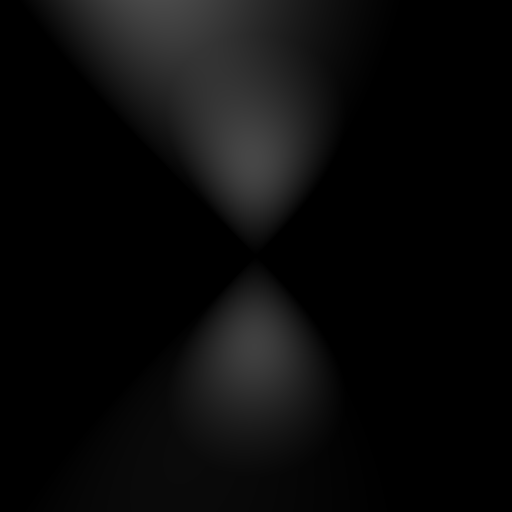
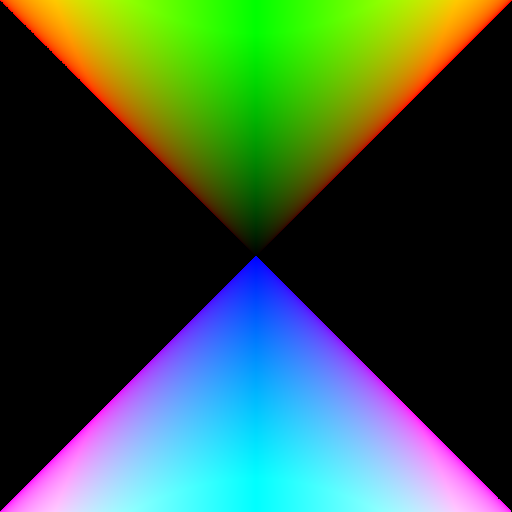
Implemented reflective material and Whitted for reflection

diff --git a/rt/src/rt/integrators/WhittedIntegrator.java b/rt/src/rt/integrators/WhittedIntegrator.java
@@ -2,13 +2,14 @@ package rt.integrators;
 
 import java.util.Iterator;
 
-import javax.vecmath.*;
+import javax.vecmath.Vector3f;
 
 import rt.HitRecord;
 import rt.Integrator;
 import rt.Intersectable;
-import rt.LightList;
 import rt.LightGeometry;
+import rt.LightList;
+import rt.Material.ShadingSample;
 import rt.Ray;
 import rt.Sampler;
 import rt.Scene;
@@ -18,12 +19,13 @@ import rt.StaticVecmath;
 /**
  * Integrator for Whitted style ray tracing. This is a basic version that needs to be extended!
  */
-public class PointLightIntegrator implements Integrator {
+public class WhittedIntegrator implements Integrator {
 
 	LightList lightList;
 	Intersectable root;
+	static final int MAX_DEPTH = 10;
 	
-	public PointLightIntegrator(Scene scene)
+	public WhittedIntegrator(Scene scene)
 	{
 		this.lightList = scene.getLightList();
 		this.root = scene.getIntersectable();
@@ -37,6 +39,19 @@ public class PointLightIntegrator implements Integrator {
 	public Spectrum integrate(Ray r) {
 
 		HitRecord hitRecord = root.intersect(r);
+		
+		int depth = 0;
+		while(hitRecord != null && hitRecord.material.hasSpecularReflection() && depth < MAX_DEPTH){
+			ShadingSample sample = hitRecord.material.evaluateSpecularReflection(hitRecord);
+			
+			Vector3f posPlusEps = new Vector3f();
+			posPlusEps.scaleAdd(1e-3f, sample.w,hitRecord.position);
+//			Ray reflectedRay = new Ray(hitRecord.position, sample.w);
+			Ray reflectedRay = new Ray(posPlusEps, sample.w);
+			hitRecord = root.intersect(reflectedRay);
+			depth++;
+		}
+		
 		if(hitRecord != null)
 		{
 			Spectrum outgoing = new Spectrum(0.f, 0.f, 0.f);
@@ -56,18 +71,18 @@ public class PointLightIntegrator implements Integrator {
 				float d = lightDir.lengthSquared();
 				lightDir.normalize();
 				
-				Ray shadowRay = new Ray(hitRecord.position,lightDir);
-				Vector3f scaledLightDir = new Vector3f(lightDir);
-				scaledLightDir.scale(1e-3f);
-				shadowRay.origin.add(scaledLightDir);
-				HitRecord shadowHit = root.intersect(shadowRay);
-
-				if(shadowHit != null){
-					float lengthShadowHitToHitRecord = StaticVecmath.dist2(shadowHit.position, hitRecord.position);
-					if (d > lengthShadowHitToHitRecord){
-						continue;
-					}
-				}
+//				Ray shadowRay = new Ray(hitRecord.position,lightDir);
+//				Vector3f scaledLightDir = new Vector3f(lightDir);
+//				scaledLightDir.scale(1e-3f);
+//				shadowRay.origin.add(scaledLightDir);
+//				HitRecord shadowHit = root.intersect(shadowRay);
+//
+//				if(shadowHit != null){
+//					float lengthShadowHitToHitRecord = StaticVecmath.dist2(shadowHit.position, hitRecord.position);
+//					if (d > lengthShadowHitToHitRecord){
+//						continue;
+//					}
+//				}
 				
 				// Evaluate the BRDF
 				brdfValue = hitRecord.material.evaluateBRDF(hitRecord, hitRecord.w, lightDir);

diff --git a/rt/src/rt/testscenes/CSGScene.java b/rt/src/rt/testscenes/CSGScene.java
@@ -10,17 +10,19 @@ import rt.Scene;
 import rt.Spectrum;
 import rt.cameras.PinholeCamera;
 import rt.films.BoxFilterFilm;
-import rt.integrators.PointLightIntegratorFactory;
+import rt.integrators.WhittedIntegratorFactory;
 import rt.intersectables.CSGInstance;
 import rt.intersectables.CSGNode;
 import rt.intersectables.CSGPlane;
 import rt.intersectables.CSGSolid;
+import rt.intersectables.CSGSphere;
 import rt.intersectables.CSGTwoSidedInfiniteCone;
 import rt.intersectables.CSGUnitCylinder;
 import rt.intersectables.IntersectableList;
 import rt.intersectables.Plane;
 import rt.lightsources.PointLight;
 import rt.materials.Diffuse;
+import rt.materials.Reflective;
 import rt.materials.XYZGrid;
 import rt.samplers.OneSamplerFactory;
 import rt.tonemappers.ClampTonemapper;
@@ -50,13 +52,20 @@ public class CSGScene extends Scene {
 		tonemapper = new ClampTonemapper();
 		
 		// Specify which integrator and sampler to use
-//		integratorFactory = new WhittedIntegratorFactory();
-		integratorFactory = new PointLightIntegratorFactory();
+		integratorFactory = new WhittedIntegratorFactory();
+//		integratorFactory = new PointLightIntegratorFactory();
+//		integratorFactory = new DebugIntegratorFactory();
+		
+		// TODO
 //		samplerFactory = new UniformSamplerFactory();
 		samplerFactory = new OneSamplerFactory();
 		
+		// TODO
 //		Material refractive = new Refractive(1.3f);
-		Material refractive = new Diffuse(new Spectrum(1.f, 1.f, 1.f));
+//		Material refractive = new Diffuse(new Spectrum(1.f, 1.f, 1.f));
+//		Material refractive = new rt.materials.Blinn(new Spectrum(1f, 1f, 1f), new Spectrum(.4f, .4f, .4f), 50.f);
+		Material refractive = new Reflective(new Spectrum(1,1,1));
+		
 		// Make a conical "bowl" by subtracting cross-sections of two cones
 		CSGSolid outerCone = coneCrossSection(60.f, refractive);
 		// Make an inner cone and subtract it
@@ -72,7 +81,7 @@ public class CSGScene extends Scene {
 		rot.rotX(-(float)Math.PI/2.f);
 		Matrix4f trans = new Matrix4f();
 		trans.setIdentity();
-		trans.setTranslation(new Vector3f(-1.5f, -1.5f, 0.f));
+		trans.setTranslation(new Vector3f(-1.5f,-1.5f, 0f));
 		trans.mul(rot);		
 		doubleCone = new CSGInstance(doubleCone, trans);
 		
@@ -103,6 +112,7 @@ public class CSGScene extends Scene {
 		rot.setIdentity();
 		rot.rotX(-(float)Math.PI/2.f);		
 		rot.mul(trafo);
+		
 		// Place in scene by translating
 		trans = new Matrix4f();
 		trans.setIdentity();
@@ -119,7 +129,7 @@ public class CSGScene extends Scene {
 		
 		// Collect objects in intersectable list
 		IntersectableList intersectableList = new IntersectableList();
-		intersectableList.add(doubleCone);	
+		intersectableList.add(doubleCone);
 		intersectableList.add(soap);
 		intersectableList.add(groundPlane);
 		intersectableList.add(backPlane);

diff --git a/rt/src/rt/materials/Reflective.java b/rt/src/rt/materials/Reflective.java
@@ -1,0 +1,93 @@
+package rt.materials;
+
+import javax.vecmath.Vector3f;
+
+import rt.*;
+
+/**
+ * A basic diffuse material.
+ */
+public class Reflective implements Material {
+
+	Spectrum ks;
+	
+	/**
+	 * Note that the parameter value {@param kd} is the diffuse reflectance,
+	 * which should be in the range [0,1], a value of 1 meaning all light
+	 * is reflected (diffusely), and none is absorbed. The diffuse BRDF
+	 * corresponding to {@param kd} is actually {@param kd}/pi.
+	 * 
+	 * @param ks the specular reflection coefficient
+	 */
+	public Reflective(Spectrum ks)
+	{
+		this.ks = new Spectrum(ks);
+	}
+	
+	/**
+	 * Default diffuse material with reflectance (1,1,1).
+	 */
+	public Reflective()
+	{
+		this(new Spectrum(1.f, 1.f, 1.f));
+	}
+
+	/**
+	 * Returns diffuse BRDF value, that is, a constant.
+	 * 
+	 *  @param wOut outgoing direction, by convention towards camera
+	 *  @param wIn incident direction, by convention towards light
+	 *  @param hitRecord hit record to be used
+	 */
+	public Spectrum evaluateBRDF(HitRecord hitRecord, Vector3f wOut, Vector3f wIn) {
+		return new Spectrum(0,0,1);
+	}
+
+	public boolean hasSpecularReflection()
+	{
+		return true;
+	}
+	
+	public ShadingSample evaluateSpecularReflection(HitRecord hitRecord)
+	{	
+		Vector3f i = new Vector3f(hitRecord.w);
+		i.negate();
+		
+		float cosThetaI = -i.dot(hitRecord.normal); 
+				
+		Vector3f r = new Vector3f();
+		r.scaleAdd(2*cosThetaI,hitRecord.normal,i);
+		
+		ShadingSample sample = new ShadingSample(new Spectrum(0,0,1), new Spectrum(0,0,0),r,true,1);
+		return sample;
+	}
+	public boolean hasSpecularRefraction()
+	{
+		return false;
+	}
+
+	public ShadingSample evaluateSpecularRefraction(HitRecord hitRecord)
+	{
+		return null;
+	}
+	
+	// To be implemented for path tracer!
+	public ShadingSample getShadingSample(HitRecord hitRecord, float[] sample)
+	{
+		return null;	
+	}
+		
+	public boolean castsShadows()
+	{
+		return true;
+	}
+	
+	public Spectrum evaluateEmission(HitRecord hitRecord, Vector3f wOut) {
+		return new Spectrum(0.f, 0.f, 0.f);
+	}
+
+	public ShadingSample getEmissionSample(HitRecord hitRecord, float[] sample) {
+		return new ShadingSample();
+	}
+	
+}

diff --git a/rt/src/rt/testscenes/CSGPrimitives.java b/rt/src/rt/testscenes/CSGPrimitives.java
@@ -1,21 +1,19 @@
 package rt.testscenes;
 
+import javax.vecmath.Matrix4f;
 import javax.vecmath.Vector3f;
 
 import rt.LightGeometry;
 import rt.LightList;
+import rt.Material;
 import rt.Scene;
 import rt.Spectrum;
 import rt.cameras.PinholeCamera;
 import rt.films.BoxFilterFilm;
-import rt.integrators.DebugIntegratorFactory;
-import rt.integrators.PointLightIntegratorFactory;
-import rt.intersectables.CSGCylinder;
-import rt.intersectables.CSGPlane;
-import rt.intersectables.CSGTwoSidedInfiniteCone;
-import rt.intersectables.CSGUnitCylinder;
-import rt.intersectables.IntersectableList;
+import rt.integrators.*;
+import rt.intersectables.*;
 import rt.lightsources.PointLight;
+import rt.materials.*;
 import rt.samplers.OneSamplerFactory;
 import rt.tonemappers.ClampTonemapper;
 
@@ -37,8 +35,8 @@ public class CSGPrimitives extends Scene {
 		SPP = 1;
 		
 		// Specify which camera, film, and tonemapper to use
-		Vector3f eye = new Vector3f(0.f, 3.f, 3.5f);
-		Vector3f lookAt = new Vector3f(0.f, 0.f, 0.5f);
+		Vector3f eye = new Vector3f(0.f, 3.f, 0.f);
+		Vector3f lookAt = new Vector3f(0.f, 0.f, 0.f);
 		Vector3f up = new Vector3f(0.f, 0.f, 1.f);
 		float fov = 60.f;
 		float aspect = 1.f;
@@ -48,7 +46,7 @@ public class CSGPrimitives extends Scene {
 		
 		// Specify which integrator and sampler to use
 		integratorFactory = new PointLightIntegratorFactory();
-//		integratorFactory = new DebugIntegratorFactory();
+		integratorFactory = new DebugIntegratorFactory();
 		samplerFactory = new OneSamplerFactory();
 
 		// Ground plane
@@ -61,7 +59,8 @@ public class CSGPrimitives extends Scene {
 		
 		IntersectableList intersectableList = new IntersectableList();
 //		intersectableList.add(groundPlane);
-		intersectableList.add(unitCylinder);
+		intersectableList.add(cone);
+	
 		
 		root = intersectableList;
 		

diff --git a/rt/src/rt/integrators/DebugIntegrator.java b/rt/src/rt/integrators/DebugIntegrator.java
@@ -38,7 +38,8 @@ public class DebugIntegrator implements Integrator {
 //				return new Spectrum(1.f,0.f,0.f);
 //		else 
 //			return new Spectrum(0.f,0.f,0.f);
-			return new Spectrum(Math.abs(hitRecord.normal.x),Math.abs(hitRecord.normal.y),Math.abs(hitRecord.normal.z));
+			float blueComponent = (hitRecord.normal.z > 0) ? 1 : 0;
+			return new Spectrum(Math.abs(hitRecord.normal.x),Math.abs(hitRecord.normal.y),blueComponent);
 		}
 		return new Spectrum(0.f,0.f,0.f);
 		

diff --git a/rt/src/rt/integrators/WhittedIntegratorFactory.java b/rt/src/rt/integrators/WhittedIntegratorFactory.java
@@ -1,0 +1,20 @@
+package rt.integrators;
+
+import rt.Integrator;
+import rt.IntegratorFactory;
+import rt.Scene;
+
+/**
+ * Makes a {@link PointLightIntegrator}.
+ */
+public class WhittedIntegratorFactory implements IntegratorFactory {
+
+	public Integrator make(Scene scene) {
+		return new WhittedIntegrator(scene);
+	}
+
+	public void prepareScene(Scene scene) {
+		// TODO Auto-generated method stub
+	}
+
+}
